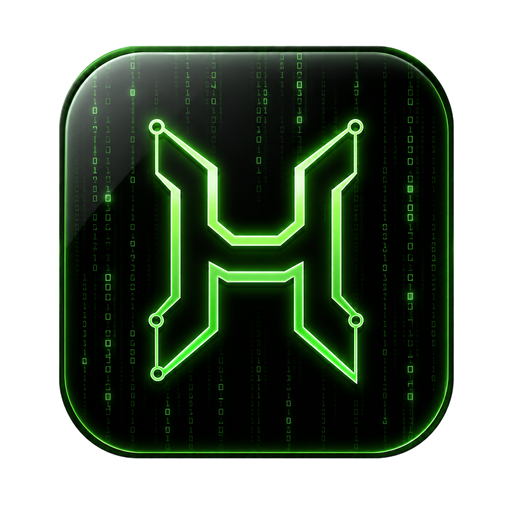
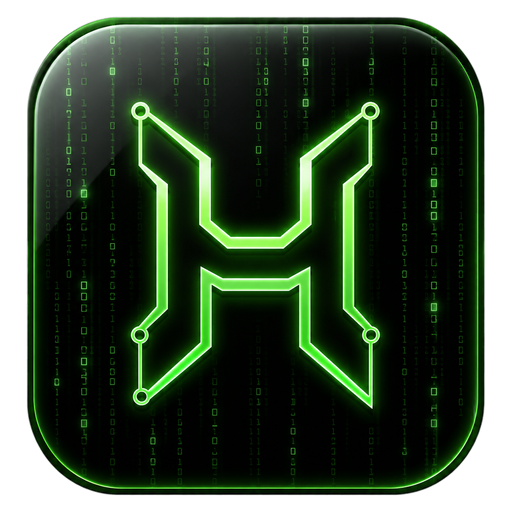
feat: 콘텐츠·가독성·디자인 다듬기 (소개/OOM 규모/StAX 서사/로고/레인)
- About 소개 3문단 의미단위 줄바꿈, 본문 밝기 상향, 소제목 아이콘(핵심 역량·보유 기술)
- 전역 text-wrap: pretty, 다크 보조 텍스트 밝기 상향(가독성)
- OOM 카드: metric을 누적 ~2억 row로, 라벨 '메모리 터짐(OOM) 0건'으로 명확화
- 포트폴리오/경력에 DOM→JAXB→StAX 기술 선택 시행착오 서사 추가
- 로고 여백 크롭(헤더·파비콘 꽉 차게), 매트릭스 레인 0·1 바이너리+영문
- README 다크(블랙) 테마 안내 추가, KT 파트너사 표기

diff --git a/web/src/data/profile.ts b/web/src/data/profile.ts
@@ -15,8 +15,21 @@ export const profile = {
   headline: '전자고지·대용량 발송/배치 도메인을 5년간 설계·개발·운영했습니다.',
   subHeadline:
     '매월 수백만 건의 공공·통신 고지가 지나가는 발송 파이프라인. 델파이 레거시를 Java 21로 재구축하고, 필요한 도구는 직접 만들어 Maven Central에 배포합니다.',
-  intro:
-    'Java·Spring 기반으로 KT 명세서 ETL 배치, PASS 전자고지 PUSH, 카카오 전자문서 발송 서버를 설계부터 운영까지 담당해 온 백엔드 개발자입니다. 레거시 현대화가 제 경력의 축입니다 — 델파이 월 배치를 Java로 재구축하고, 관리자 콘솔을 JSP→Vue2→Vue3로 전환하고, 보험사 발송 엔진을 인수해 재구축했습니다. 운영 사고는 원인 분석부터 복구 SQL, 재발 방지 문서화까지 마무리하고, 회사 밖에서는 Spring Boot Starter를 직접 만들어 Maven Central에 배포했습니다.',
+  // 각 문단을 의미 단위 줄(line)로 분리 — 보고서처럼 읽히도록
+  intro: [
+    [
+      'Java·Spring 기반으로 KT 명세서 ETL 배치, PASS 전자고지 PUSH,',
+      '카카오 전자문서 발송 서버를 설계부터 운영까지 담당해 온 백엔드 개발자입니다.',
+    ],
+    [
+      '레거시 현대화가 제 경력의 축입니다 — 델파이 월 배치를 Java로 재구축하고,',
+      '관리자 콘솔을 JSP→Vue2→Vue3로 전환하고, 보험사 발송 엔진을 인수해 재구축했습니다.',
+    ],
+    [
+      '운영 사고는 원인 분석부터 복구 SQL, 재발 방지 문서화까지 마무리하고,',
+      '회사 밖에서는 Spring Boot Starter를 직접 만들어 Maven Central에 배포했습니다.',
+    ],
+  ],
   company: 'GIBIS',
   companyDesc: 'KT 파트너사',
   tenure: '2021.08 ~ 재직 중',
@@ -56,10 +69,10 @@ export const achievements: Achievement[] = [
     detail: '커서 루프를 집합 기반(MERGE)으로 재설계, 청크 커밋·재개 구조로 DB 세션 제약 우회. 약 60% 단축 (운영 실측).',
   },
   {
-    metric: '0',
-    unit: '건',
-    label: '운영 OOM',
-    detail: '1GB+ XML을 StAX 상태머신 + 파서 풀·단일 라이터 파이프라인으로 힙 수십 MB에 스트리밍 적재 (운영 로그 기준).',
+    metric: '~2억',
+    unit: 'row',
+    label: '누적 StAX 적재 · 메모리 터짐(OOM) 0건',
+    detail: '매월 명세서 약 100만 건(1GB+ XML)을 StAX 상태머신 + 파서 풀·단일 라이터 파이프라인으로 힙 수십 MB에만 스트리밍 파싱·적재 — 누적 파싱 약 2천만 건, 디테일 테이블 누적 약 2억 row를 운영 OOM 0건으로 처리.',
   },
   {
     metric: '3',

diff --git a/web/src/views/AboutView.vue b/web/src/views/AboutView.vue
@@ -20,7 +20,9 @@ const facts = [
     <div class="about-grid">
       <!-- 소개글 -->
       <div class="about-intro card">
-        <p>{{ profile.intro }}</p>
+        <p v-for="(para, i) in profile.intro" :key="i">
+          <template v-for="(line, j) in para" :key="j">{{ line }}<br v-if="j < para.length - 1" /></template>
+        </p>
       </div>
       <!-- 인적사항 + 링크 -->
       <aside class="about-side">
@@ -47,7 +49,7 @@ const facts = [
 
     <!-- 핵심 역량 -->
     <section class="sub">
-      <h3 class="sub-title">핵심 역량</h3>
+      <h3 class="sub-title"><AppIcon name="award" :size="20" class="sub-ic" />핵심 역량</h3>
       <div class="comp-list">
         <article v-for="c in competencies" :key="c.title" class="comp-item card">
           <div class="comp-ic"><AppIcon :name="c.icon" :size="19" /></div>
@@ -61,7 +63,7 @@ const facts = [
 
     <!-- 보유 기술 -->
     <section class="sub">
-      <h3 class="sub-title">보유 기술</h3>
+      <h3 class="sub-title"><AppIcon name="settings" :size="20" class="sub-ic" />보유 기술</h3>
       <div class="skill-groups">
         <div v-for="g in skillGroups" :key="g.category" class="skill-group card">
           <div class="sg-cat">{{ g.category }}</div>
@@ -84,11 +86,15 @@ const facts = [
 .about-intro {
   height: 100%;
   display: flex;
-  align-items: center;
-  padding: 26px 28px;
-  font-size: 1.0rem;
-  color: var(--text-secondary);
-  line-height: 1.85;
+  flex-direction: column;
+  justify-content: center;
+  gap: 18px;
+  padding: 28px 30px;
+  font-size: 1.02rem;
+  line-height: 1.8;
+}
+.about-intro p {
+  color: var(--text);
 }
 .about-side {
   display: flex;
@@ -163,10 +169,17 @@ const facts = [
   margin-top: 56px;
 }
 .sub-title {
+  display: flex;
+  align-items: center;
+  gap: 10px;
   font-size: 1.35rem;
   font-weight: 800;
   letter-spacing: -0.025em;
   margin-bottom: 22px;
+}
+.sub-ic {
+  flex-shrink: 0;
+  color: var(--accent);
 }
 .comp-list {
   display: grid;

diff --git a/web/src/data/portfolio.ts b/web/src/data/portfolio.ts
@@ -49,6 +49,12 @@ export const caseStudies: CaseStudy[] = [
     blocks: [
       {
         type: 'text',
+        heading: '왜 StAX인가 — DOM → JAXB → StAX 시행착오',
+        content:
+          '처음엔 DOM으로 접근했지만 대용량에서 단건 파싱 속도가 나오지 않았고, JAXB로 전체 객체 바인딩하니 이번엔 메모리 점유가 치솟아 OOM이 빈발했다. 최종적으로 StAX 커서/이벤트 스트리밍으로 전환 — 문서를 통째로 올리지 않고 흘려보내며 처리해, 힙 수십 MB로 매월 명세서 약 100만 건을 안정 처리한다. 세 방식을 직접 다 겪으며 트레이드오프(속도 · 메모리 · 편의성)를 확인하고 내린 선택.',
+      },
+      {
+        type: 'text',
         heading: '해결 1 — 규모별 파싱 전략 + StAX 상태머신',
         content:
           '01001(텍스트, 10만 라인 flush) / 01002(중규모, JAXB) / 01003(대규모, StAX)으로 분기. StAX는 BILLINFO 단위 상태머신으로 섹션을 이벤트로 분해 → DTO 생성 → 즉시 배치 INSERT → 버퍼 해제. 문서를 트리로 올리지 않아 1GB+ 파일도 힙 수십 MB로 처리.',

diff --git a/web/src/data/career.ts b/web/src/data/career.ts
@@ -55,7 +55,7 @@ export const projects: CareerProject[] = [
       {
         heading: '데이터 규모별 파싱 전략 분리 (OOM 해결)',
         points: [
-          '문제 — 대규모 XML(1GB+)을 JAXB로 통째 객체화하다 OutOfMemoryError 빈발.',
+          '문제 — 처음엔 DOM 파싱이 대용량에서 단건 속도가 나오지 않았고, JAXB로 전체 객체화하니 메모리 점유가 치솟아 OutOfMemoryError 빈발.',
           '해결 — 01001(텍스트, BufferedReader 10만 라인 flush) / 01002(중규모, JAXB) / 01003(대규모, StAX 스트리밍 상태머신)으로 분기. StAX는 BILLINFO 단위로 DTO 생성 → 즉시 배치 INSERT → 버퍼 해제 순으로 힙 점유 억제.',
           '결과 — 1GB급 XML을 수십 MB 힙 안에서 처리, 운영 OOM 0건. 01002는 수신~적재 전 구간 약 10분 내 완료(운영 로그 기준).',
         ],

diff --git a/web/src/style/base.css b/web/src/style/base.css
@@ -37,9 +37,9 @@
   --surface-2: #121a12;
   --border: #1c281c;
   --border-strong: #2c3d2c;
-  --text: #dfe8df;
-  --text-secondary: #a6b4a6;
-  --text-muted: #6c7a6c;
+  --text: #e6efe6;
+  --text-secondary: #bcc8bc;
+  --text-muted: #8a978a;
   --accent: #2ee06a;
   --accent-hover: #55ff92;
   --accent-soft: rgba(46, 224, 106, 0.1);
@@ -75,6 +75,8 @@ body {
   /* 한국어 가독성: 어절(단어) 단위로 줄바꿈, 긴 영문은 필요 시 끊기 */
   word-break: keep-all;
   overflow-wrap: break-word;
+  /* 줄 끝을 균형있게 — 마지막 줄에 한 단어만 남는(고아) 현상 방지 */
+  text-wrap: pretty;
 }
 
 /* 은은한 매트릭스 그리드 텍스처 — 배경 전체에 고정 */

diff --git a/web/src/components/MatrixRain.vue b/web/src/components/MatrixRain.vue
@@ -11,7 +11,7 @@ let raf = 0
 let last = 0
 let running = false
 const fontSize = 15
-const glyphs = '0123456789ABCDEFGHIJKLMNOPQRSTUVWXYZ'
+const glyphs = '01ABCDEFGHIJKLMNOPQRSTUVWXYZ'
 
 const reduceMotion = window.matchMedia('(prefers-reduced-motion: reduce)').matches
 

diff --git a/README.md b/README.md
@@ -30,6 +30,10 @@
 <sub>📖 <b>이력서 · 경력기술서 · 포트폴리오</b> 블로그 → <a href="https://black-astro.github.io/black-astro/">black-astro.github.io/black-astro</a> &nbsp;·&nbsp; <code>Vue 3 · TypeScript · Vite</code></sub>
 </div>
 
+<div align="center">
+<sub>🌙 이 프로필은 <b>다크(블랙) 테마</b>에 맞춰 디자인했습니다 — <b>GitHub 다크 모드</b>에서 가장 잘 보입니다.</sub>
+</div>
+
 <br/>
 
 <div align="center">
